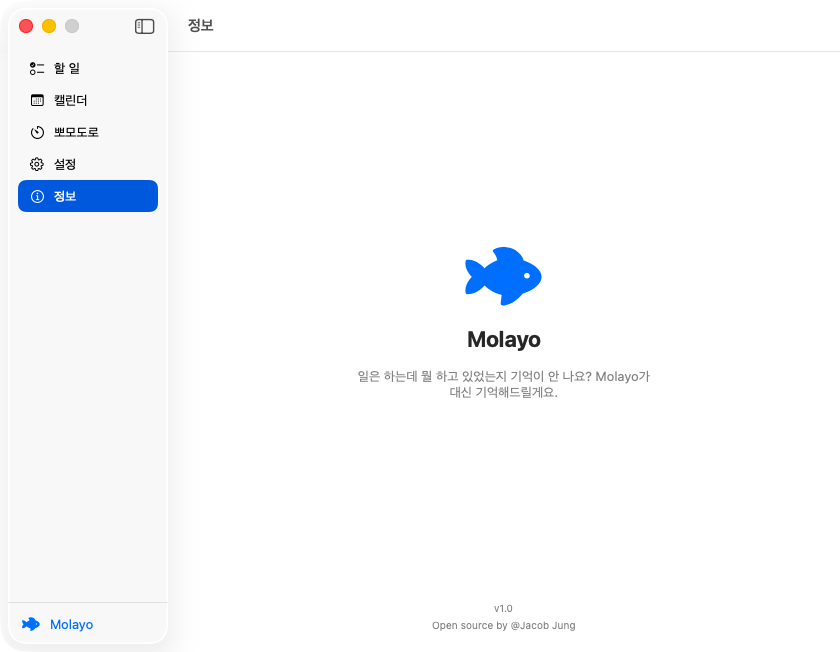
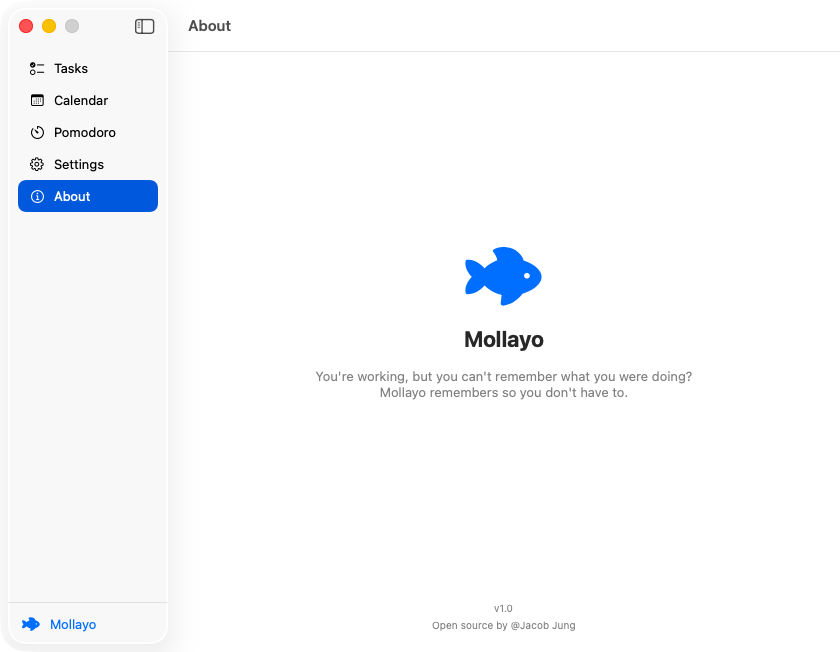
Add English screenshots for all 4 tabs to README
Tasks, Calendar, Pomodoro, About - all captured with the app set to
English and sample data (no real personal task data shown).

diff --git a/README.md b/README.md
@@ -10,6 +10,10 @@ A macOS native to-do + Pomodoro timer app for people (like ADHD users) who forge
 
 <p align="center">
   <img src="screenshots/tasks.png" width="420" alt="Task list" />
+  <img src="screenshots/calendar.png" width="420" alt="Calendar view" />
+</p>
+<p align="center">
+  <img src="screenshots/pomodoro.png" width="420" alt="Pomodoro timer" />
   <img src="screenshots/about.png" width="420" alt="About screen" />
 </p>
 
